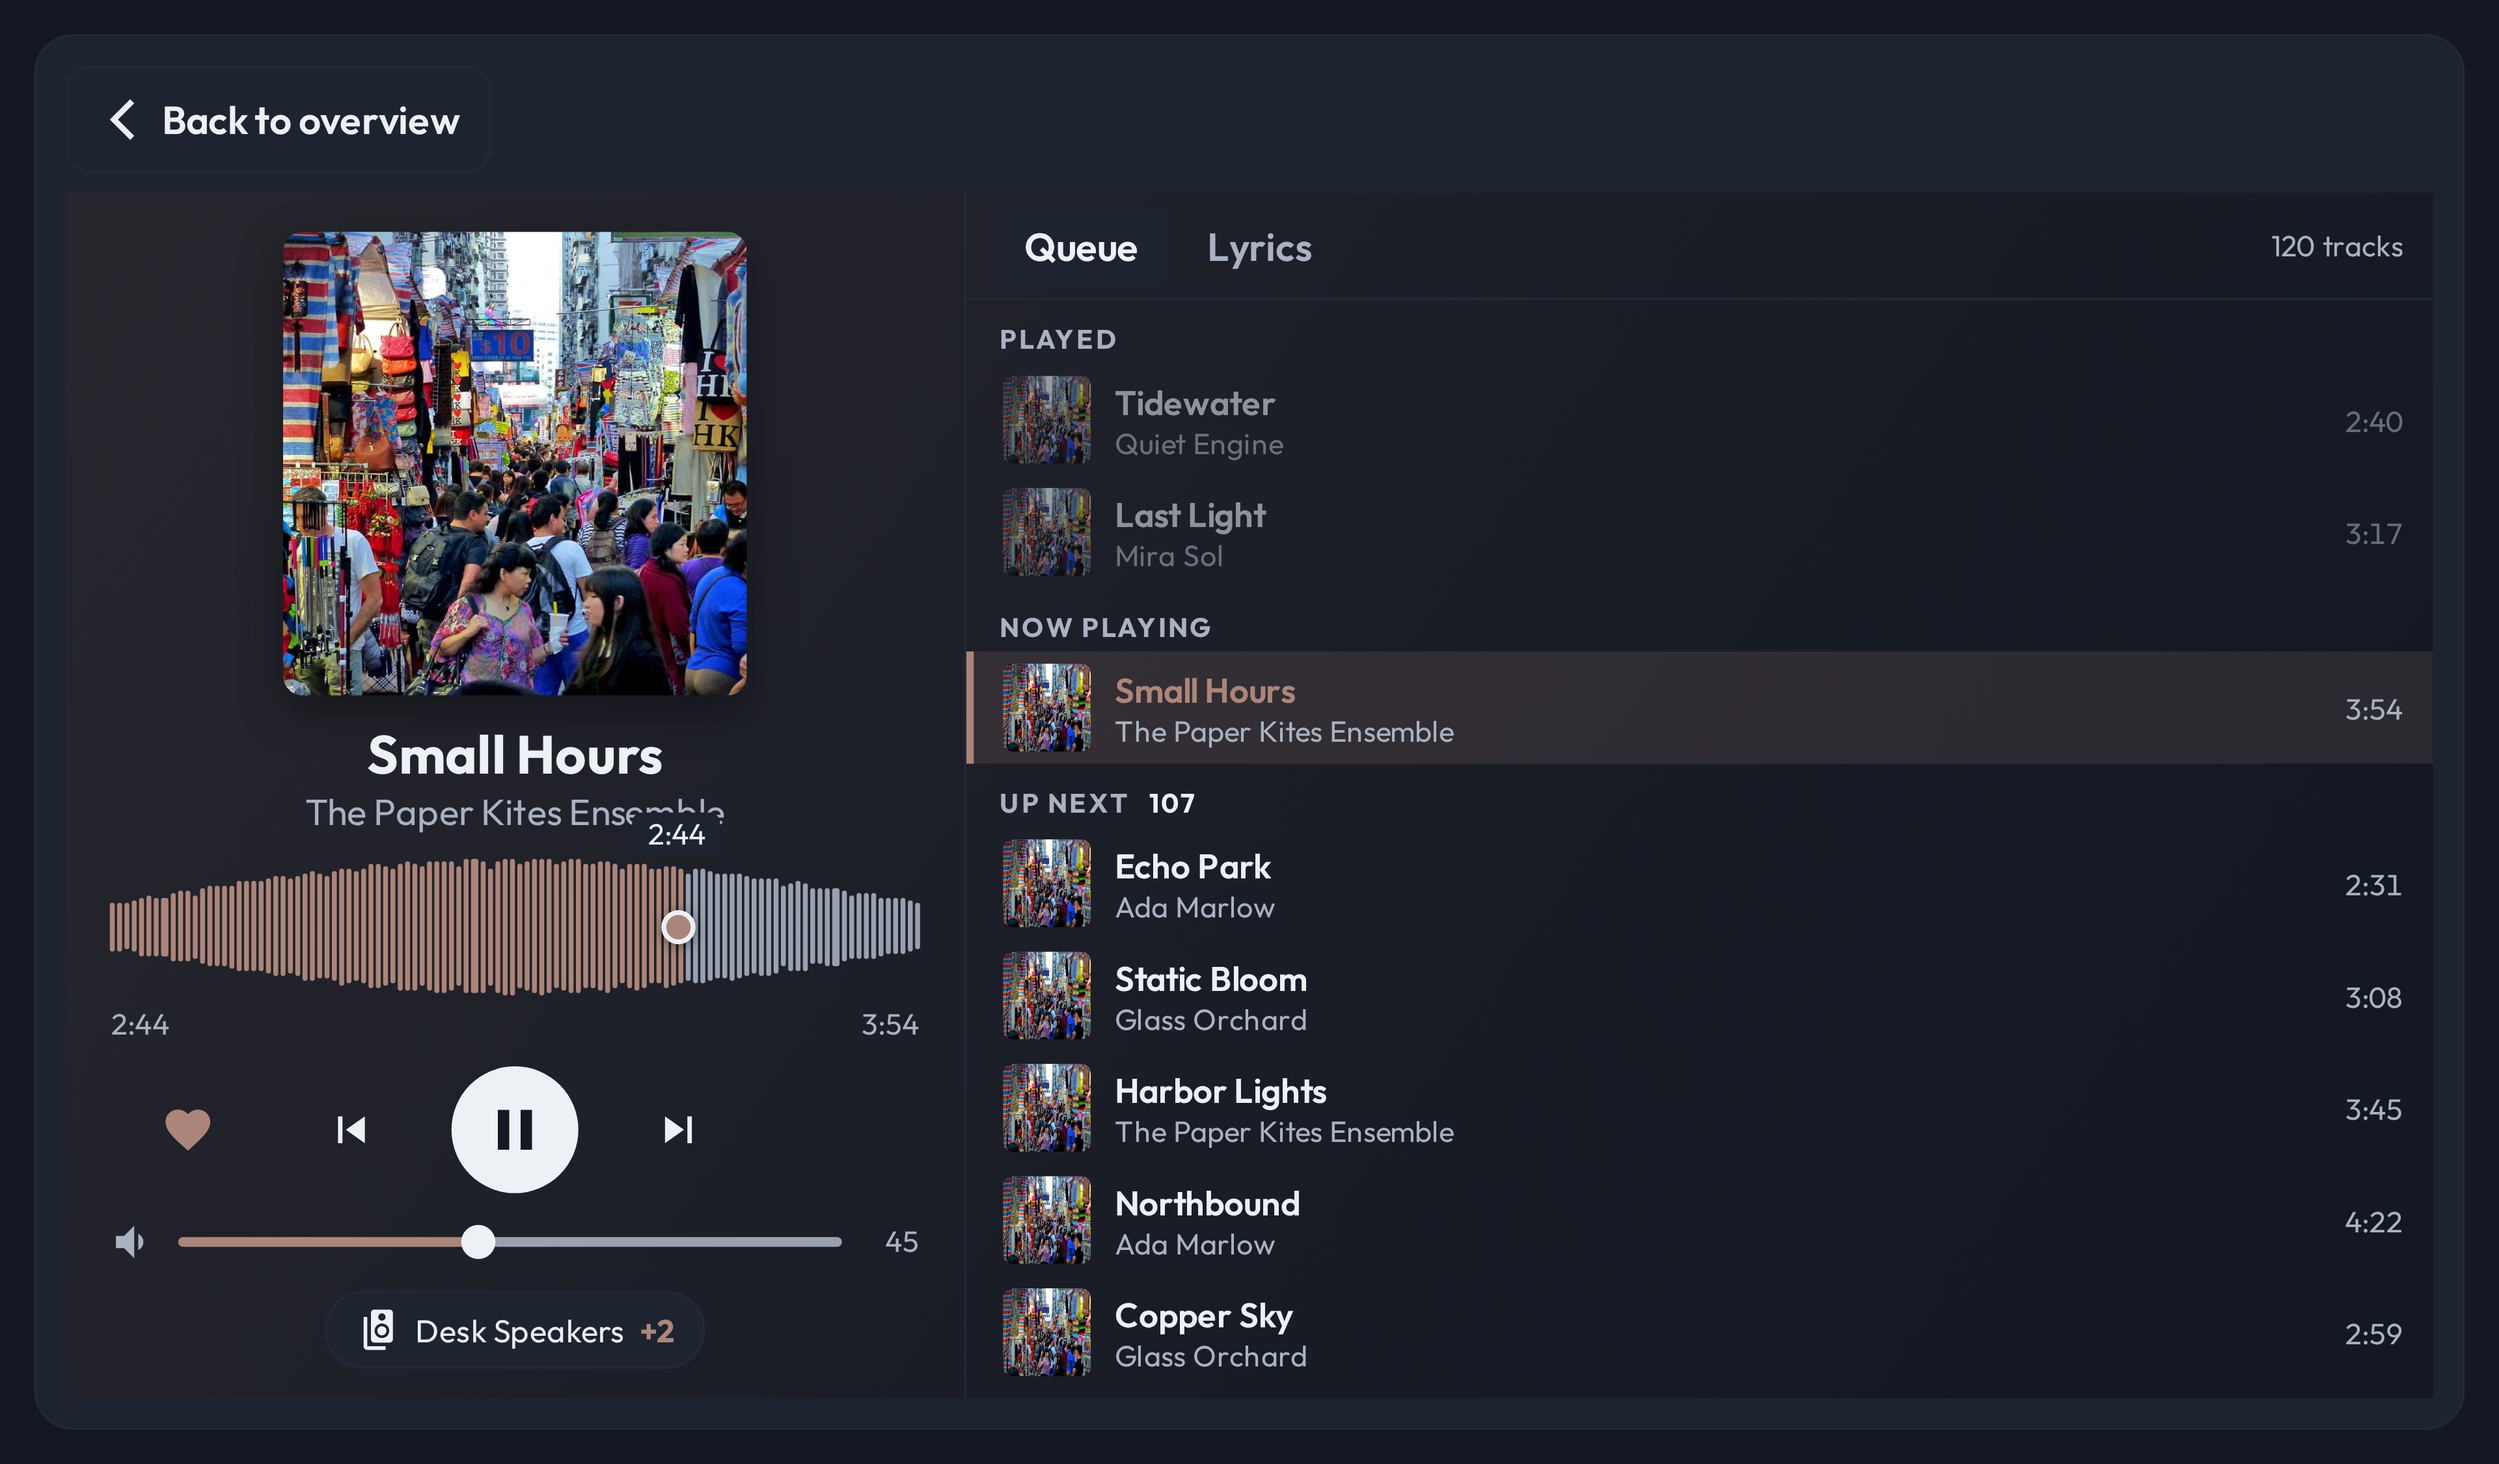
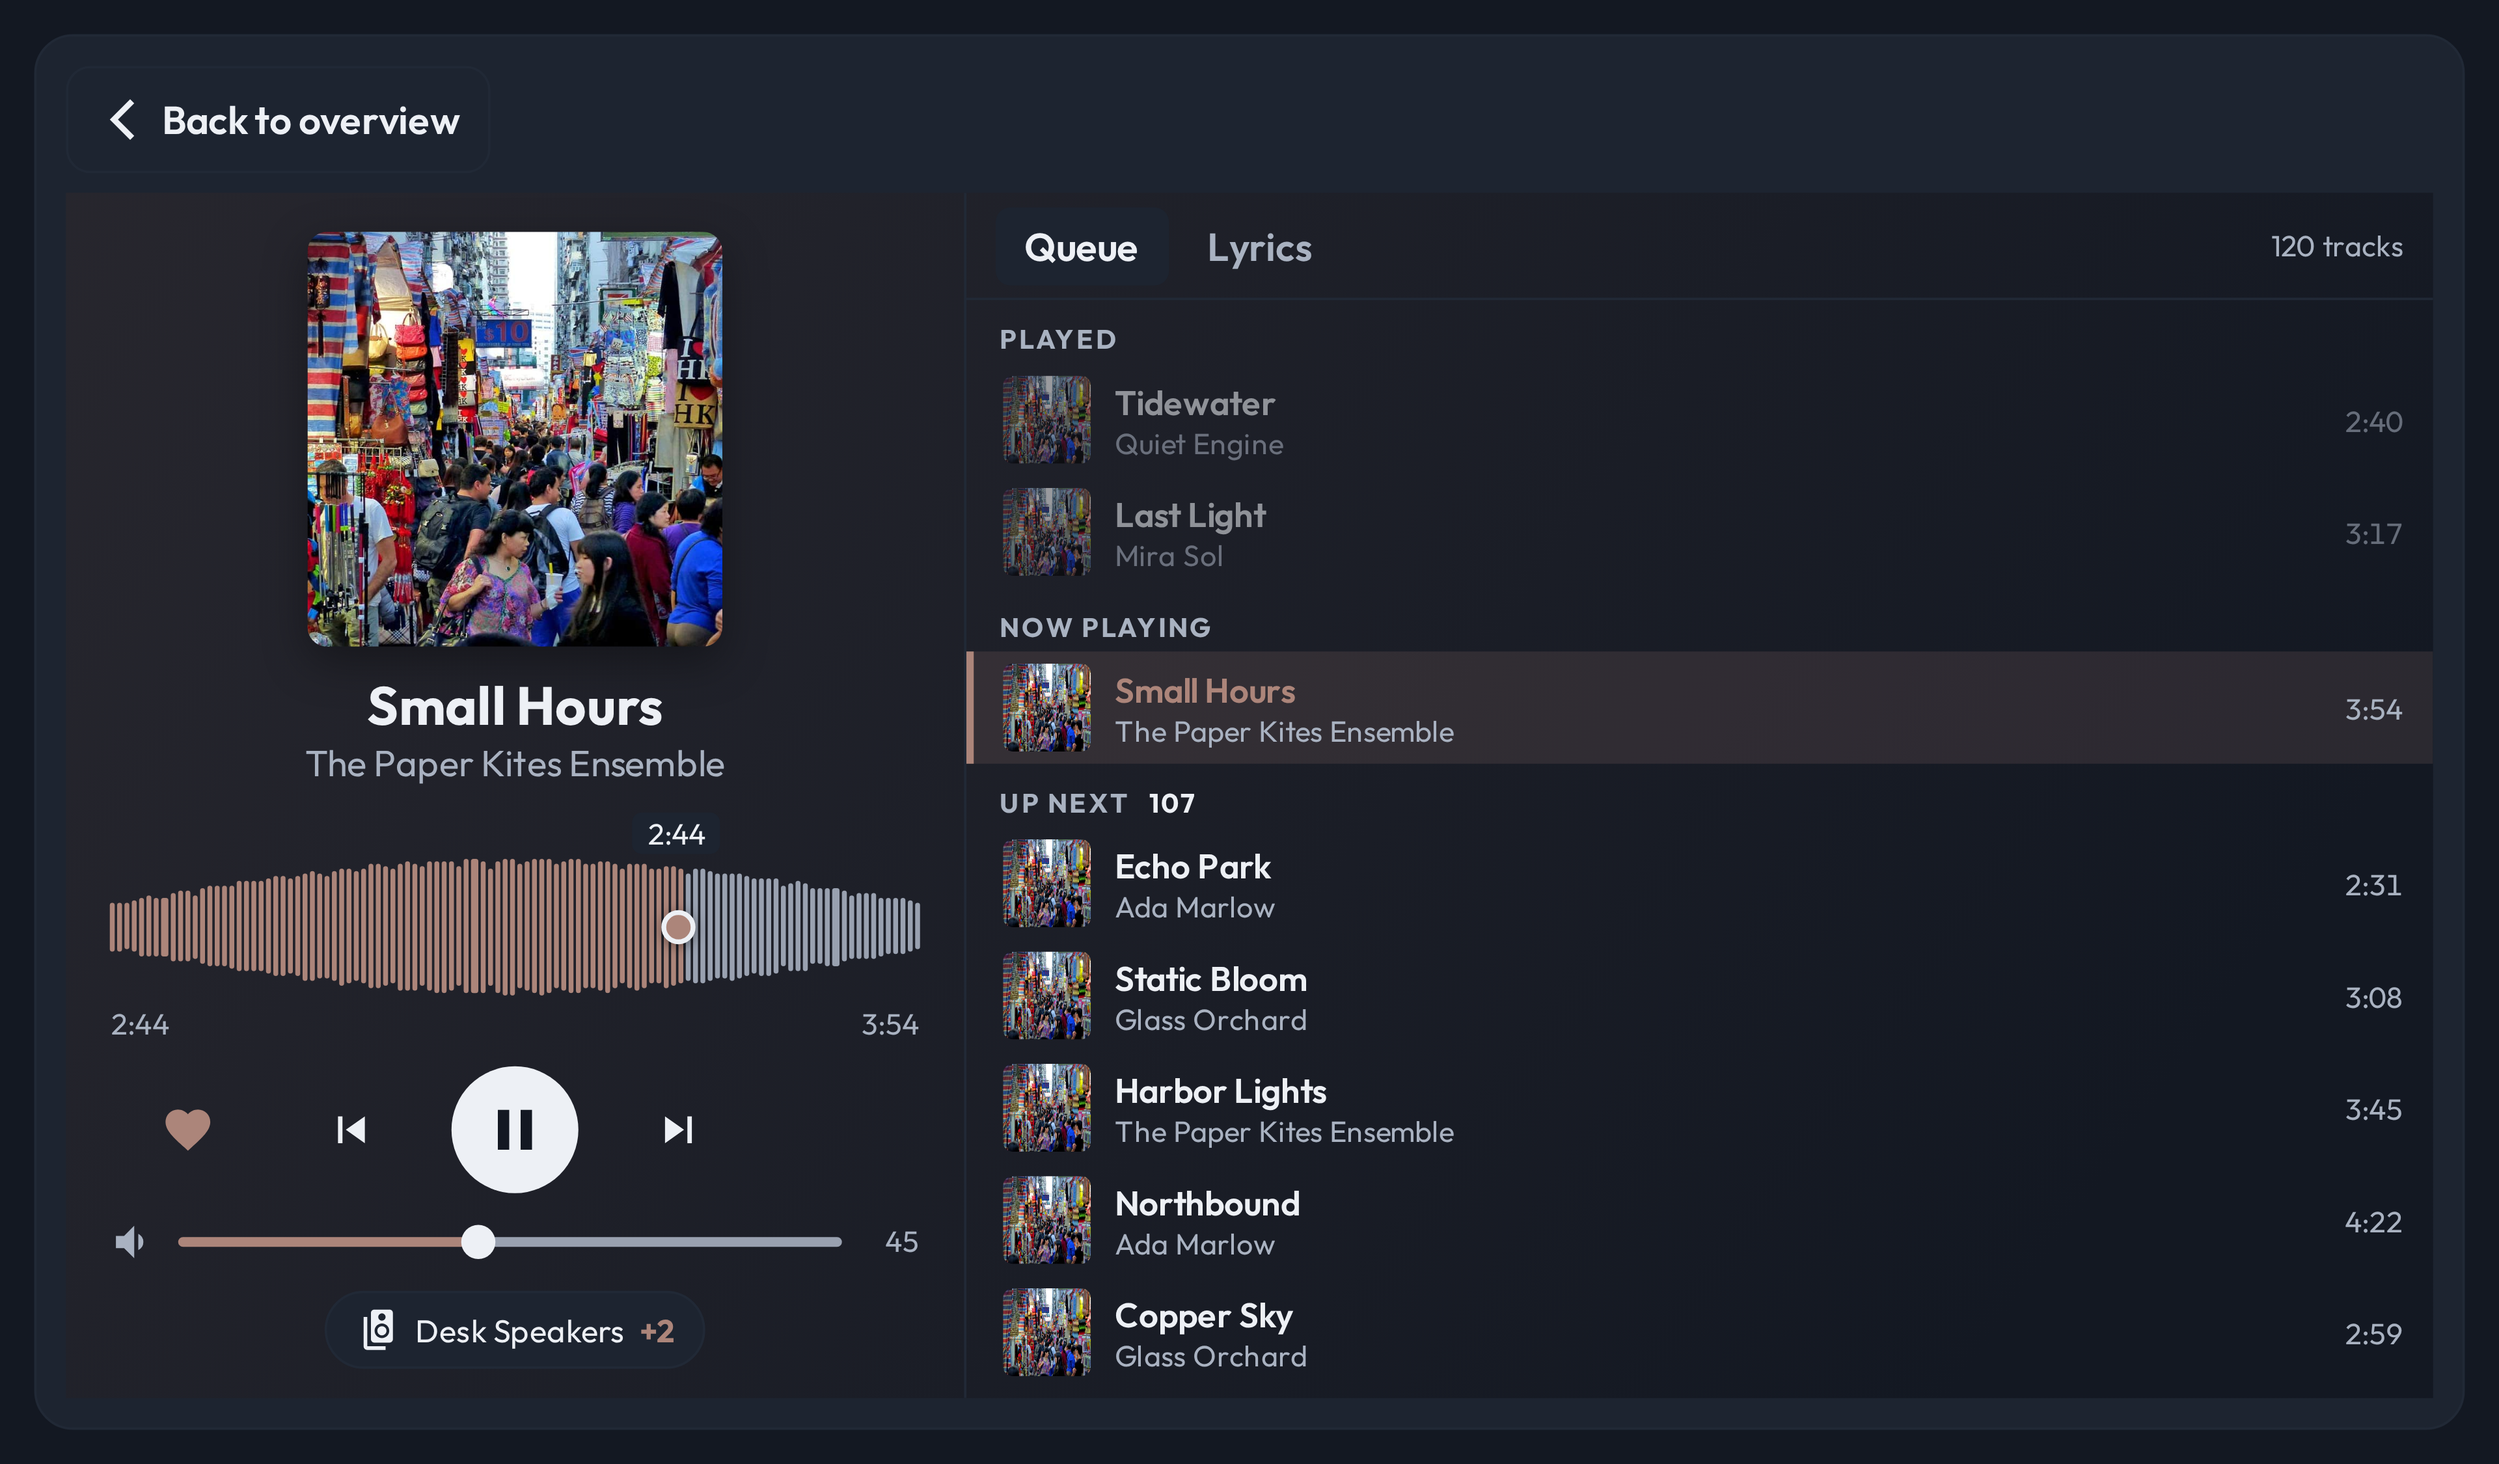
fix: reserve space for the seek preview label

Changed region(s): [[0.0938, 0.1556, 0.3125, 0.56]]

diff --git a/packages/slatecast/src/views/MusicPlayer.test.tsx b/packages/slatecast/src/views/MusicPlayer.test.tsx
@@ -419,6 +419,14 @@ test("the seek handle is visible on hover and drag, and waveform bars keep a rea
   const handle = wave.querySelector(".music-seek-handle")!
   await browserUser.hover(wave)
   expect(getComputedStyle(handle).opacity).toBe("1")
+  const tooltip = wave.querySelector(".music-seek-hover")!
+  expect(
+    tooltip.getBoundingClientRect().top,
+  ).toBeGreaterThanOrEqual(
+    document
+      .querySelector(".music-title")
+      ?.getBoundingClientRect().bottom,
+  )
   await user.pointer([
     {
       ...pointOnWave({ wave, fraction: 0.2 }),

diff --git a/packages/slatecast/src/styles.css b/packages/slatecast/src/styles.css
@@ -4662,6 +4662,7 @@ html[data-grayscale-text="true"] {
   white-space: nowrap;
 }
 .music-seek {
+  padding-top: 20px;
   flex-shrink: 0;
   display: flex;
   flex-direction: column;
